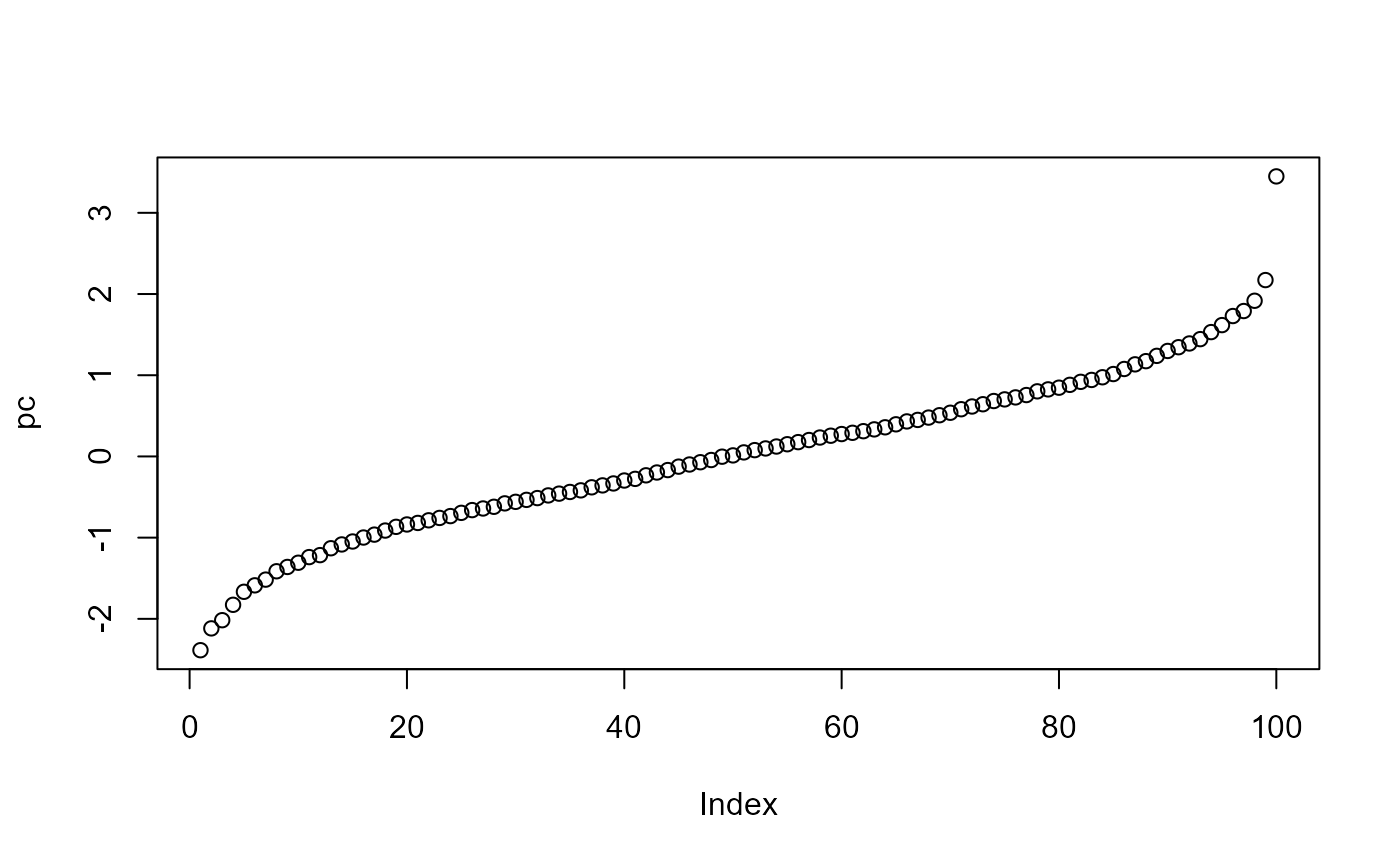
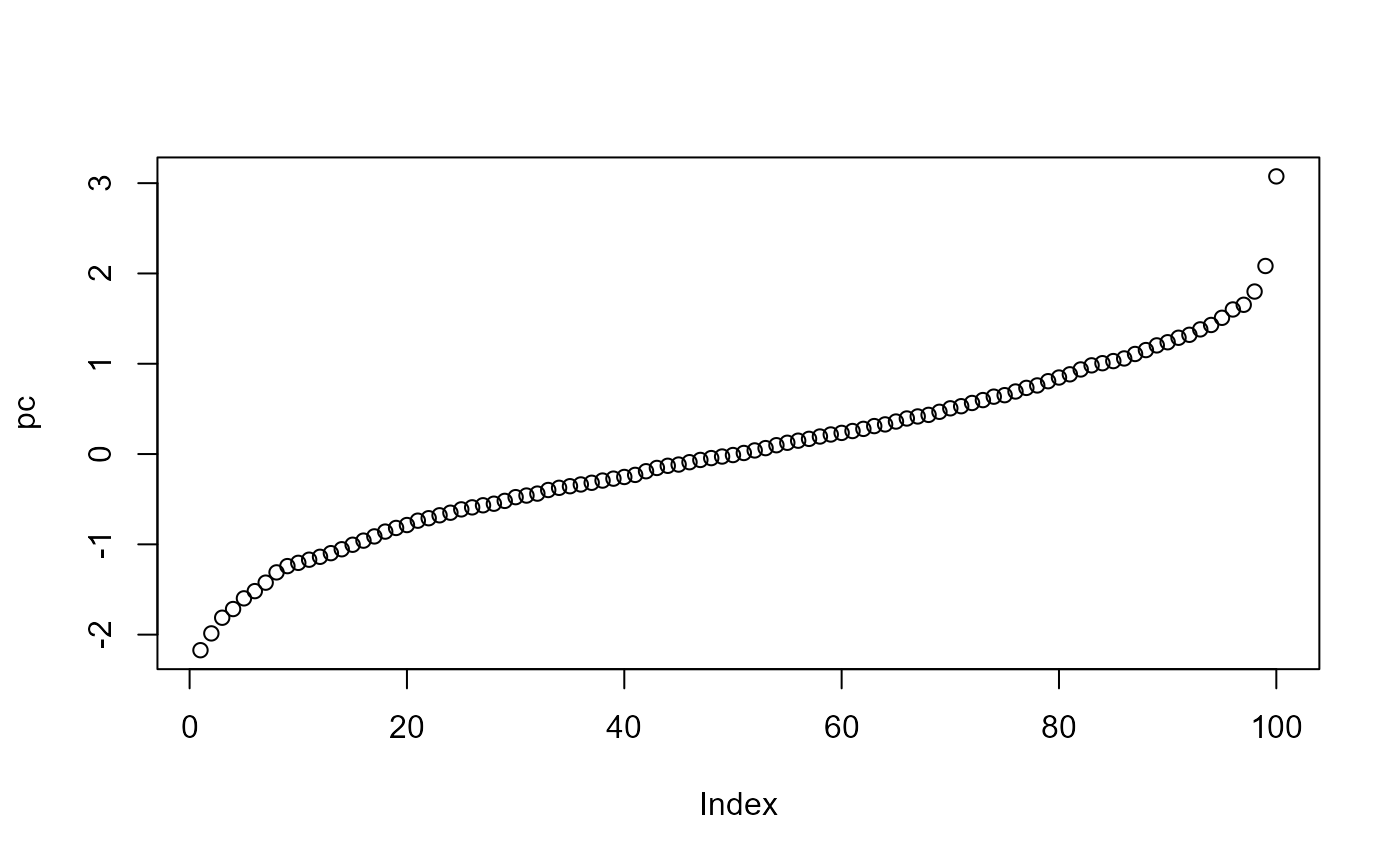
Update website to 1.4.3

diff --git a/docs/articles/vtablehelpers.html b/docs/articles/vtablehelpers.html
@@ -33,7 +33,7 @@
       </button>
       <span class="navbar-brand">
         <a class="navbar-link" href="../index.html">vtable</a>
-        <span class="version label label-default" data-toggle="tooltip" data-placement="bottom" title="">1.4.2</span>
+        <span class="version label label-default" data-toggle="tooltip" data-placement="bottom" title="">1.4.3</span>
       </span>
     </div>
 
@@ -97,7 +97,7 @@
                         <h4 data-toc-skip class="author">Nick
 Huntington-Klein</h4>
             
-            <h4 data-toc-skip class="date">2023-03-14</h4>
+            <h4 data-toc-skip class="date">2023-03-26</h4>
       
       <small class="dont-index">Source: <a href="https://github.com/NickCH-K/vtable/blob/HEAD/vignettes/vtablehelpers.Rmd" class="external-link"><code>vignettes/vtablehelpers.Rmd</code></a></small>
       <div class="hidden name"><code>vtablehelpers.Rmd</code></div>
@@ -240,7 +240,7 @@ This can be convenient in several applications, an obvious one being in
 <span><span class="co">#25th, 50th, 75th percentile</span></span>
 <span><span class="va">pc</span><span class="op">[</span><span class="fu"><a href="https://rdrr.io/r/base/c.html" class="external-link">c</a></span><span class="op">(</span><span class="fl">25</span>,<span class="fl">50</span>,<span class="fl">75</span><span class="op">)</span><span class="op">]</span></span></code></pre></div>
 <pre><code><span><span class="co">##         25%         50%         75% </span></span>
-<span><span class="co">## -0.69475500  0.01284442  0.70253613</span></span></code></pre>
+<span><span class="co">## -0.61283950 -0.01098194  0.65206653</span></span></code></pre>
 <div class="sourceCode" id="cb7"><pre class="downlit sourceCode r">
 <code class="sourceCode R"><span><span class="co">#Inverse normal CDF with 100 points of articulation</span></span>
 <span><span class="fu"><a href="https://rdrr.io/r/graphics/plot.default.html" class="external-link">plot</a></span><span class="op">(</span><span class="va">pc</span><span class="op">)</span></span></code></pre></div>

diff --git a/docs/news/index.html b/docs/news/index.html
@@ -17,7 +17,7 @@
       </button>
       <span class="navbar-brand">
         <a class="navbar-link" href="../index.html">vtable</a>
-        <span class="version label label-default" data-toggle="tooltip" data-placement="bottom" title="">1.4.2</span>
+        <span class="version label label-default" data-toggle="tooltip" data-placement="bottom" title="">1.4.3</span>
       </span>
     </div>
 
@@ -95,7 +95,7 @@
 <li>Other minor fixes.</li>
 </ul></div>
     <div class="section level2">
-<h2 class="page-header" data-toc-text="1.4.2" id="vtable-142">vtable 1.4.2<a class="anchor" aria-label="anchor" href="#vtable-142"></a></h2>
+<h2 class="page-header" data-toc-text="1.4.2" id="vtable-142">vtable 1.4.2<small>2023-03-14</small><a class="anchor" aria-label="anchor" href="#vtable-142"></a></h2>
 <ul><li>
 <code>format</code> option of <code><a href="../reference/sumtable.html">sumtable()</a></code> changed to <code>numformat</code> to avoid namespace issues.</li>
 <li>Added <code>obs.function</code> option to <code><a href="../reference/sumtable.html">sumtable()</a></code> to make it easier to swap out the function used to count observations.</li>
@@ -104,6 +104,10 @@
 <li>Fixed issue where default <code>out</code> option did not work running inside of <code>knitr</code> rendering to Word.</li>
 <li>Fixed issue with escaped characters in <code>kable</code>s.</li>
 <li>Added <code><a href="../reference/formatfunc.html">formatfunc()</a></code> function to easily customize <code>numformat</code> options.</li>
+</ul></div>
+    <div class="section level2">
+<h2 class="page-header" data-toc-text="1.4.3" id="vtable-143">vtable 1.4.3<a class="anchor" aria-label="anchor" href="#vtable-143"></a></h2>
+<ul><li>Fixed bug introduced by 1.4.2 relating to grouped sumtables when one group has all-missing values of a variable.</li>
 </ul></div>
   </div>
 

diff --git a/docs/authors.html b/docs/authors.html
@@ -17,7 +17,7 @@
       </button>
       <span class="navbar-brand">
         <a class="navbar-link" href="index.html">vtable</a>
-        <span class="version label label-default" data-toggle="tooltip" data-placement="bottom" title="">1.4.2</span>
+        <span class="version label label-default" data-toggle="tooltip" data-placement="bottom" title="">1.4.3</span>
       </span>
     </div>
 
@@ -88,13 +88,13 @@
 
     <p>Huntington-Klein N (2023).
 <em>vtable: Variable Table for Variable Documentation</em>.
-R package version 1.4.2, <a href="https://nickch-k.github.io/vtable/" class="external-link">https://nickch-k.github.io/vtable/</a>. 
+R package version 1.4.3, <a href="https://nickch-k.github.io/vtable/" class="external-link">https://nickch-k.github.io/vtable/</a>. 
 </p>
     <pre>@Manual{,
   title = {vtable: Variable Table for Variable Documentation},
   author = {Nick Huntington-Klein},
   year = {2023},
-  note = {R package version 1.4.2},
+  note = {R package version 1.4.3},
   url = {https://nickch-k.github.io/vtable/},
 }</pre>
 

diff --git a/docs/articles/dftotable.html b/docs/articles/dftotable.html
@@ -33,7 +33,7 @@
       </button>
       <span class="navbar-brand">
         <a class="navbar-link" href="../index.html">vtable</a>
-        <span class="version label label-default" data-toggle="tooltip" data-placement="bottom" title="">1.4.2</span>
+        <span class="version label label-default" data-toggle="tooltip" data-placement="bottom" title="">1.4.3</span>
       </span>
     </div>
 
@@ -98,7 +98,7 @@ Formatting</h1>
                         <h4 data-toc-skip class="author">Nick
 Huntington-Klein</h4>
             
-            <h4 data-toc-skip class="date">2023-03-14</h4>
+            <h4 data-toc-skip class="date">2023-03-26</h4>
       
       <small class="dont-index">Source: <a href="https://github.com/NickCH-K/vtable/blob/HEAD/vignettes/dftotable.Rmd" class="external-link"><code>vignettes/dftotable.Rmd</code></a></small>
       <div class="hidden name"><code>dftotable.Rmd</code></div>

diff --git a/docs/articles/vtablefunction.html b/docs/articles/vtablefunction.html
@@ -33,7 +33,7 @@
       </button>
       <span class="navbar-brand">
         <a class="navbar-link" href="../index.html">vtable</a>
-        <span class="version label label-default" data-toggle="tooltip" data-placement="bottom" title="">1.4.2</span>
+        <span class="version label label-default" data-toggle="tooltip" data-placement="bottom" title="">1.4.3</span>
       </span>
     </div>
 
@@ -98,7 +98,7 @@
                         <h4 data-toc-skip class="author">Nick
 Huntington-Klein</h4>
             
-            <h4 data-toc-skip class="date">2023-03-14</h4>
+            <h4 data-toc-skip class="date">2023-03-26</h4>
       
       <small class="dont-index">Source: <a href="https://github.com/NickCH-K/vtable/blob/HEAD/vignettes/vtablefunction.Rmd" class="external-link"><code>vignettes/vtablefunction.Rmd</code></a></small>
       <div class="hidden name"><code>vtablefunction.Rmd</code></div>

diff --git a/docs/articles/labeltable.html b/docs/articles/labeltable.html
@@ -33,7 +33,7 @@
       </button>
       <span class="navbar-brand">
         <a class="navbar-link" href="../index.html">vtable</a>
-        <span class="version label label-default" data-toggle="tooltip" data-placement="bottom" title="">1.4.2</span>
+        <span class="version label label-default" data-toggle="tooltip" data-placement="bottom" title="">1.4.3</span>
       </span>
     </div>
 
@@ -98,7 +98,7 @@
                         <h4 data-toc-skip class="author">Nick
 Huntington-Klein</h4>
             
-            <h4 data-toc-skip class="date">2023-03-14</h4>
+            <h4 data-toc-skip class="date">2023-03-26</h4>
       
       <small class="dont-index">Source: <a href="https://github.com/NickCH-K/vtable/blob/HEAD/vignettes/labeltable.Rmd" class="external-link"><code>vignettes/labeltable.Rmd</code></a></small>
       <div class="hidden name"><code>labeltable.Rmd</code></div>

diff --git a/docs/articles/sumtable.html b/docs/articles/sumtable.html
@@ -33,7 +33,7 @@
       </button>
       <span class="navbar-brand">
         <a class="navbar-link" href="../index.html">vtable</a>
-        <span class="version label label-default" data-toggle="tooltip" data-placement="bottom" title="">1.4.2</span>
+        <span class="version label label-default" data-toggle="tooltip" data-placement="bottom" title="">1.4.3</span>
       </span>
     </div>
 
@@ -98,7 +98,7 @@
                         <h4 data-toc-skip class="author">Nick
 Huntington-Klein</h4>
             
-            <h4 data-toc-skip class="date">2023-03-14</h4>
+            <h4 data-toc-skip class="date">2023-03-26</h4>
       
       <small class="dont-index">Source: <a href="https://github.com/NickCH-K/vtable/blob/HEAD/vignettes/sumtable.Rmd" class="external-link"><code>vignettes/sumtable.Rmd</code></a></small>
       <div class="hidden name"><code>sumtable.Rmd</code></div>

diff --git a/docs/articles/vtable.html b/docs/articles/vtable.html
@@ -33,7 +33,7 @@
       </button>
       <span class="navbar-brand">
         <a class="navbar-link" href="../index.html">vtable</a>
-        <span class="version label label-default" data-toggle="tooltip" data-placement="bottom" title="">1.4.2</span>
+        <span class="version label label-default" data-toggle="tooltip" data-placement="bottom" title="">1.4.3</span>
       </span>
     </div>
 
@@ -97,7 +97,7 @@
                         <h4 data-toc-skip class="author">Nick
 Huntington-Klein</h4>
             
-            <h4 data-toc-skip class="date">2023-03-14</h4>
+            <h4 data-toc-skip class="date">2023-03-26</h4>
       
       <small class="dont-index">Source: <a href="https://github.com/NickCH-K/vtable/blob/HEAD/vignettes/vtable.Rmd" class="external-link"><code>vignettes/vtable.Rmd</code></a></small>
       <div class="hidden name"><code>vtable.Rmd</code></div>

diff --git a/docs/articles/index.html b/docs/articles/index.html
@@ -17,7 +17,7 @@
       </button>
       <span class="navbar-brand">
         <a class="navbar-link" href="../index.html">vtable</a>
-        <span class="version label label-default" data-toggle="tooltip" data-placement="bottom" title="">1.4.2</span>
+        <span class="version label label-default" data-toggle="tooltip" data-placement="bottom" title="">1.4.3</span>
       </span>
     </div>
 

diff --git a/docs/reference/countNA.html b/docs/reference/countNA.html
@@ -17,7 +17,7 @@
       </button>
       <span class="navbar-brand">
         <a class="navbar-link" href="../index.html">vtable</a>
-        <span class="version label label-default" data-toggle="tooltip" data-placement="bottom" title="">1.4.2</span>
+        <span class="version label label-default" data-toggle="tooltip" data-placement="bottom" title="">1.4.3</span>
       </span>
     </div>
 

diff --git a/docs/reference/dftoHTML.html b/docs/reference/dftoHTML.html
@@ -17,7 +17,7 @@
       </button>
       <span class="navbar-brand">
         <a class="navbar-link" href="../index.html">vtable</a>
-        <span class="version label label-default" data-toggle="tooltip" data-placement="bottom" title="">1.4.2</span>
+        <span class="version label label-default" data-toggle="tooltip" data-placement="bottom" title="">1.4.3</span>
       </span>
     </div>
 

diff --git a/docs/reference/dftoLaTeX.html b/docs/reference/dftoLaTeX.html
@@ -17,7 +17,7 @@
       </button>
       <span class="navbar-brand">
         <a class="navbar-link" href="../index.html">vtable</a>
-        <span class="version label label-default" data-toggle="tooltip" data-placement="bottom" title="">1.4.2</span>
+        <span class="version label label-default" data-toggle="tooltip" data-placement="bottom" title="">1.4.3</span>
       </span>
     </div>
 
